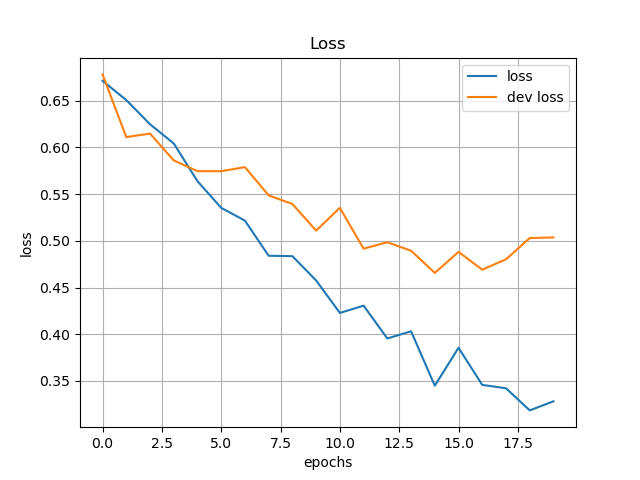
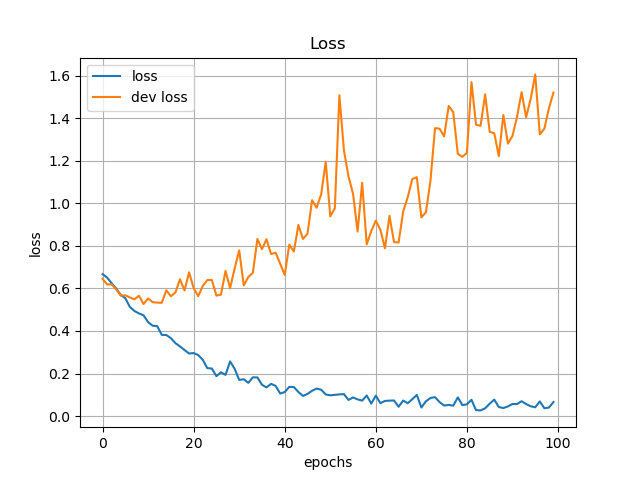
3/10 update

diff --git a/keypoint.py b/keypoint.py
@@ -1,0 +1,231 @@
+import os
+from typing import Tuple, List, Sequence, Callable, Dict
+
+import cv2
+import pandas as pd
+import numpy as np
+import matplotlib.pyplot as plt
+from tqdm import tqdm
+
+import torch
+from torch import nn, Tensor
+import torch.optim as optim
+from torch.utils.data import Dataset, DataLoader
+from torchvision.models import mobilenet_v2
+from torchvision.models.detection import keypointrcnn_resnet50_fpn
+from torchvision.ops import MultiScaleRoIAlign
+from torchvision.models.detection import KeypointRCNN
+
+import albumentations as A
+from albumentations.pytorch import ToTensorV2
+
+
+df = pd.read_csv('../keypoint-detection/1. open/train_df.csv')
+df.head()
+
+def draw_keypoints(image: np.ndarray, keypoints: np.ndarray, edges: List[Tuple[int, int]]) -> None:
+    np.random.seed(42)
+    colors = {k: tuple(map(int, np.random.randint(0, 255, 3))) for k in range(24)}
+    x1, y1 = min(keypoints[:, 0]), min(keypoints[:, 1])
+    x2, y2 = max(keypoints[:, 0]), max(keypoints[:, 1])
+    cv2.rectangle(image, (x1, y1), (x2, y2), (255, 100, 91), thickness=3)
+
+    for i, keypoint in enumerate(keypoints):
+        cv2.circle(
+            image,
+            tuple(keypoint),
+            3, colors.get(i), thickness=3, lineType=cv2.FILLED)
+
+        cv2.putText(
+            image,
+            f'{i}: {keypoint_names[i]}',
+            tuple(keypoint),
+            cv2.FONT_HERSHEY_SIMPLEX, 0.5, (0, 0, 0), 1)
+
+    for i, edge in enumerate(edges):
+        cv2.line(
+            image,
+            tuple(keypoints[edge[0]]),
+            tuple(keypoints[edge[1]]),
+            colors.get(edge[0]), 3, lineType=cv2.LINE_AA)
+
+    fig, ax = plt.subplots(dpi=200)
+    ax.imshow(image)
+    ax.axis('off')
+    plt.show()
+    fig.savefig('example.png')
+
+keypoints = df.iloc[0, 1:].values.reshape(-1, 2)
+keypoints = keypoints.astype(np.int64)
+keypoint_names = df.columns[1:].tolist()
+
+edges = [
+    (0, 1), (0, 2), (2, 4), (1, 3), (6, 8), (8, 10),
+    (5, 7), (7, 9), (11, 13), (13, 15), (12, 14),
+    (14, 16), (5, 6), (15, 22), (16, 23), (11, 21),
+    (21, 12), (20, 21), (5, 20), (6, 20), (17, 6), (17, 5)
+]
+
+image = cv2.imread('../keypoint-detection/1. open/train_imgs/001-1-1-01-Z17_A-0000001.jpg', cv2.COLOR_BGR2RGB)
+draw_keypoints(image, keypoints, edges)
+
+image = cv2.imread('../keypoint-detection/1. open/train_imgs/001-1-1-01-Z17_A-0000001.jpg', cv2.COLOR_BGR2RGB)
+image = cv2.resize(image, (1333, 800))
+image = image / 255.0
+image = image.transpose(2, 0, 1)
+image = [torch.as_tensor(image, dtype=torch.float32)]
+
+model = keypointrcnn_resnet50_fpn(pretrained=True, progrss=False)
+model.eval()
+preds = model(image)
+preds[0].keys()
+
+keypoints = preds[0]['keypoints'].detach().numpy().copy()[0]
+image = cv2.imread('../keypoint-detection/1. open/train_imgs/001-1-1-01-Z17_A-0000001.jpg', cv2.COLOR_BGR2RGB)
+keypoints[:, 0] *= image.shape[1]/1333
+keypoints[:, 1] *= image.shape[0]/800
+keypoints = keypoints[:, :2]
+
+edges = [
+    (0, 1), (0, 2), (2, 4), (1, 3), (6, 8), (8, 10),
+    (5, 7), (7, 9), (5, 11), (11, 13), (13, 15), (6, 12),
+    (12, 14), (14, 16), (5, 6)
+]
+
+draw_keypoints(image, keypoints, edges)
+
+class KeypointDataset(Dataset):
+    def __init__(
+        self,
+        image_dir: os.PathLike,
+        label_path: os.PathLike,
+        transforms: Sequence[Callable] = None
+    ) -> None:
+        self.image_dir = image_dir
+        self.df = pd.read_csv(label_path)
+        self.transforms = transforms
+
+    def __len__(self) -> int:
+        return self.df.shape[0]
+
+    def __getitem__(self, index: int) -> Tuple[Tensor, Dict]:
+        image_id = self.df.iloc[index, 0]
+        labels = np.array([1])
+        keypoints = self.df.iloc[index, 1:].values.reshape(-1, 2).astype(np.int64)
+
+        x1, y1 = min(keypoints[:, 0]), min(keypoints[:, 1])
+        x2, y2 = max(keypoints[:, 0]), max(keypoints[:, 1])
+        boxes = np.array([[x1, y1, x2, y2]], dtype=np.int64)
+
+        image = cv2.imread(os.path.join(self.image_dir, image_id), cv2.COLOR_BGR2RGB)
+
+        targets = {
+            'image': image,
+            'bboxes': boxes,
+            'labels': labels,
+            'keypoints': keypoints
+        }
+
+        if self.transforms is not None:
+            targets = self.transforms(**targets)
+
+        image = targets['image']
+        image = image / 255.0
+
+        targets = {
+            'labels': torch.as_tensor(targets['labels'], dtype=torch.int64),
+            'boxes': torch.as_tensor(targets['bboxes'], dtype=torch.float32),
+            'keypoints': torch.as_tensor(
+                np.concatenate([targets['keypoints'], np.ones((24, 1))], axis=1)[np.newaxis], dtype=torch.float32
+            )
+        }
+
+        return image, targets
+
+
+transforms = A.Compose([
+    A.Resize(800, 1333),
+    A.Normalize(mean=(0.485, 0.456, 0.406), std=(0.229, 0.224, 0.225)),
+    ToTensorV2()
+], bbox_params=A.BboxParams(format='pascal_voc', label+files=['labels']),
+   keypoint_params=A.KeypointParams(format='xy')
+)
+
+def collate_fn(batch: torch.Tensor) -> Tuple:
+    return tuple(zip(*batch))
+
+trainset = KeypointDataset('../keypoint-detection/1. open/train_imgs/', 
+    '../keypoint-detection/1. open/train_df.csv', transforms)
+train_loader = DataLoader(trainset, batch_size=8, shuffle=True, num_workers=2, collate_fn=collate_fn)
+
+def get_model() -> nn.Module:
+    backbone = mobilenet_v2(pretrained=True).features
+    backbone.out_channels = 1280
+    roi_pooler = MultiScaleRoIAlign(
+        featmap_names=['0'],
+        output_size=7,
+        sampling_ratio=2
+    )
+
+    keypoint_roi_pooler = MultiScaleRoIAlign(
+        featmap_names=['0'],
+        output_size=14,
+        sampling_ratio=2
+    )
+
+    model = KeypointRCNN(
+        backbone,
+        num_classes=2,
+        num_keypoints=24,
+        box_roi_pool=roi_pooler,
+        keypoint_roi_pool=keypoint_roi_pooler
+    )
+
+    return model
+
+def train(device: str = 'cuda:0'):
+    model = get_model()
+    model.to(device)
+    optimizer = optim.SGD(model.parameters(), lr=1e-4, momentum=0.9, weight_decay=5e-4)
+    num_epochs = 10
+    for epoch in range(num_epochs):
+        model.train()
+        for i, (images, targets) in enumerate(train_loader):
+            images = list(image.to(device) for image in images)
+            targets = [{l: v.to(device) for k, v in items()} for t in targets]
+            optimizer.zero_grad()
+            losses = model(images, targets)
+
+            loss = sum(loss for loss in losses.values())
+            loss.backward()
+            optimizer.step()
+
+            if (i+1) % 10 == 0:
+                print(f'| epoch: {epoch} | loss: {loss.item():4f}', end='|')
+                for k, v in losses.items():
+                    print(f'{k[5:]}: {v.item():4f}', end='|')
+                print()
+
+image = cv2.imread('../keypoint-detection/1. open/test_imgs/697-3-5-34-Z94_C-0000013.jpg', cv2.COLOR_BGR2RGB)
+image = cv2.resize(image, (1333, 800))
+image = image / 255.0
+image = image.transpose(2, 0, 1)
+image = [torch.as_tensor(image, dtype=torch.float32)]
+
+model.load_state_dict(torch.load('keypoint-rcnn-e20-1x.pth'))
+model.eval()
+preds = model(image)
+keypoints = preds[0]['keypoints'].detach().numpy().copy()[0]
+image = cv2.imread('../keypoint-detection/1. open/test_imgs/697-3-5-34-Z94_C-0000013.jpg', cv2.COLOR_BGR2RGB)
+keypoints[:, 0] *= image.shape[1]/1333
+keypoints[:, 1] *= image.shape[0]/800
+keypoints = keypoints[:, :2]
+
+edges = [
+    (0, 1), (0, 2), (2, 4), (1, 3), (6, 8), (8, 10),
+    (5, 7), (7, 9), (11, 13), (13, 15), (12, 14),
+    (14, 16), (5, 6), (15, 22), (16, 23), (11, 21),
+    (21, 12), (20, 21), (5, 20), (6, 20), (17, 6), (17, 5)
+]
+
+draw_keypoints(image, keypoints, edges)

diff --git a/dirty_mnist.py b/dirty_mnist.py
@@ -72,13 +72,27 @@ transforms_test = transforms.Compose([
 
 try:
     targets = pd.read_csv('../dirty-mnist-data/dirty_mnist_2nd_answer.csv', dtype=np.float32)
+    df_train = None 40,000
+    df_train.sample(frac=1.0)
+    # train 0.8 valid 0.2 = 1.0
+    train_index = int(len(df_train) * 0.8)
+
+    df_valid = df_train.iloc[train_index:]
+    df_train = df_train.iloc[:train_index]
+    
+
     targets_numpy = targets.values
     submission = pd.read_csv('../dirty-mnist-data/sample_submission.csv', dtype=np.float32)
     submission_numpy = submission.values
 
-    train_target, test_target = train_test_split(targets_numpy, test_size=0.2, shuffle=True, 
-        random_state=42)
-    train_target, dev_target = train_test_split(train_target, test_size=0.1, shuffle=True,
+    # 0.8
+    # train_target, test_target = train_test_split(targets_numpy, test_size=0.2, shuffle=True, 
+    #     random_state=42)
+    #     0.7
+    # train_target, dev_target = train_test_split(train_target, test_size=0.1, shuffle=True,
+    #     random_state=42)
+
+    X_train, X_test, y_train, y_test = train_test_split(targets_numpy, test_size=0.2, shuffle=True, 
         random_state=42)
 
     print('train_target.shape =', train_target.shape)
@@ -292,10 +306,14 @@ train_obj = ModelTraining(Resnet18(), train_loader, dev_loader, test_loader, sub
 train_obj2 = ModelTraining(Resnet101(), train_loader, dev_loader, test_loader, submit_loader, 'cuda')
 train_obj3 = ModelTraining(Resnet34(), train_loader, dev_loader, test_loader, submit_loader, 'cuda')
 
-train_loss_list, train_acc_list, dev_loss_list, dev_acc_list = train_obj3.train(20, 1e-4)
+train_loss_list, train_acc_list, dev_loss_list, dev_acc_list = train_obj3.train(100, 1e-4)
 
 # del train_loader
 # torch.cuda.empty_cache()
 
 train_obj3.save_graph(train_loss_list, dev_loss_list, 'loss', 'dev loss', 'Resnet34')
 train_obj3.save_graph(train_acc_list, dev_acc_list, 'accuracy', 'dev accuracy', 'Resnet34')
+
+
+# epoch 1 train loss 0.45, acc = 0.45
+# epoch 1 valid loss 0.48 acc = 0.48
